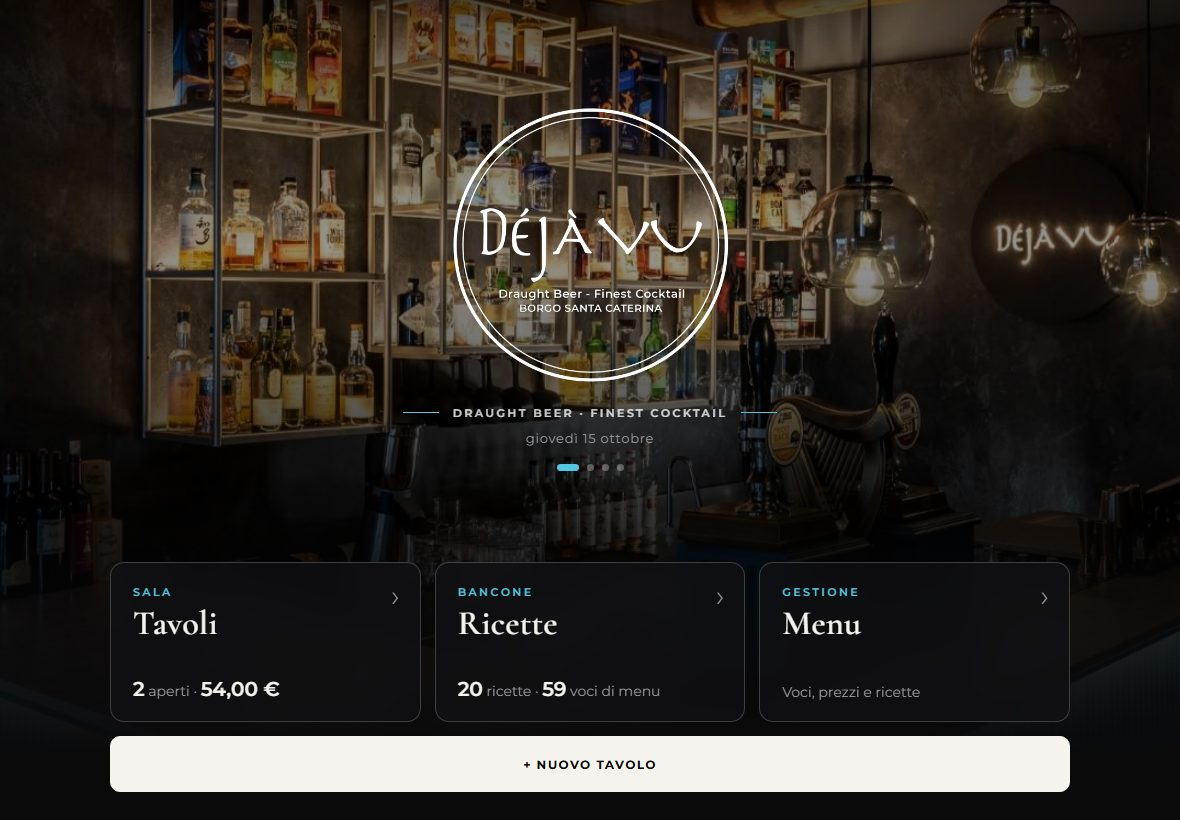
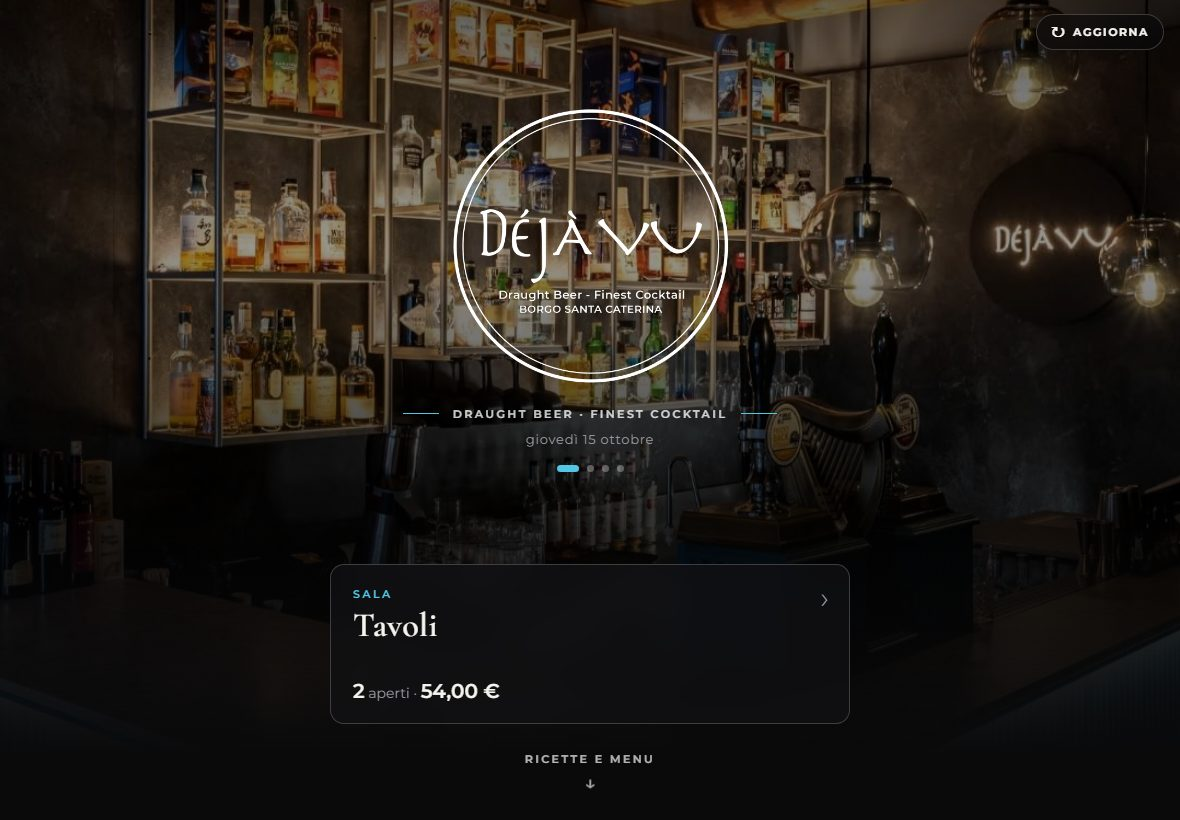
Pagina iniziale a scorrimento: all'apertura foto e Tavoli, scorrendo Ricette, Menu e Nuovo tavolo

diff --git a/staff/index.html b/staff/index.html
@@ -127,10 +127,23 @@
   .hero-top .line { display: flex; align-items: center; gap: 14px; margin-top: 22px; color: rgba(255,255,255,.8); }
   .hero-top .line::before, .hero-top .line::after { content: ""; width: 36px; height: 1px; background: var(--accent); }
   .hero-top .date { margin-top: 10px; color: var(--muted); font-size: 13px; letter-spacing: .06em; }
+  /* Primo schermo: foto, logo e solo Tavoli. Scorrendo: Ricette, Menu e Nuovo tavolo */
   .hero-cards {
-    display: grid; grid-template-columns: repeat(3, minmax(0, 1fr)); gap: 14px;
-    width: min(1000px, 100%); margin: 36px auto 0; padding: 0 20px calc(28px + env(safe-area-inset-bottom));
+    display: grid; grid-template-columns: minmax(0, 1fr); gap: 14px;
+    width: min(560px, 100%); margin: 36px auto 0; padding: 0 20px calc(18px + env(safe-area-inset-bottom));
   }
+  .scroll-hint {
+    display: flex; flex-direction: column; align-items: center; gap: 4px; margin: 6px auto 0;
+    background: none; border: none; color: rgba(255,255,255,.7); padding: 8px 16px;
+  }
+  .scroll-hint .freccia { font-size: 20px; animation: rimbalza 1.8s ease-in-out infinite; }
+  @keyframes rimbalza { 0%, 100% { transform: translateY(0); } 50% { transform: translateY(6px); } }
+  @media (prefers-reduced-motion: reduce) { .scroll-hint .freccia { animation: none; } }
+  .home-more {
+    display: grid; grid-template-columns: repeat(2, minmax(0, 1fr)); gap: 14px;
+    width: min(1000px, 100%); margin: 0 auto; padding: 28px 20px calc(40px + env(safe-area-inset-bottom));
+  }
+  .home-more .hcard { background: var(--panel); backdrop-filter: none; -webkit-backdrop-filter: none; }
   .hcard {
     text-align: left; text-decoration: none; color: var(--text);
     background: rgba(17,17,19,.78); backdrop-filter: blur(14px); -webkit-backdrop-filter: blur(14px);
@@ -407,7 +420,8 @@
     .tabs a.on::after { left: 10px; right: 10px; }
     .page-title h2 { font-size: 30px; }
     .page-title .btn { width: 100%; }
-    .hero-cards { grid-template-columns: minmax(0, 1fr); gap: 10px; padding: 0 14px calc(20px + env(safe-area-inset-bottom)); margin-top: 24px; }
+    .hero-cards { gap: 10px; padding: 0 14px calc(12px + env(safe-area-inset-bottom)); margin-top: 24px; }
+    .home-more { grid-template-columns: minmax(0, 1fr); gap: 10px; padding: 20px 14px calc(28px + env(safe-area-inset-bottom)); }
     .hcard { min-height: 0; padding: 18px; }
     .hero-top { padding-top: calc(env(safe-area-inset-top) + 32px); }
     .hero-top .line { font-size: 9px; letter-spacing: .16em; gap: 10px; margin-top: 18px; white-space: nowrap; }
@@ -695,6 +709,10 @@
               ? `<b>${tavoli.length}</b> ${tavoli.length === 1 ? "aperto" : "aperti"} · <b>${euro(aperti)}</b>`
               : "Nessun tavolo aperto"}</div>
           </a>
+          <button class="scroll-hint" data-action="scendi"><span class="dv-caps">Ricette e Menu</span><span class="freccia">↓</span></button>
+        </div>
+      </section>
+      <section class="home-more">
           <a class="hcard" href="#ricette">
             <span class="k dv-caps">Bancone</span>
             <h3>Ricette</h3>
@@ -706,7 +724,6 @@
             <div class="v">Voci, prezzi e ricette</div>
           </a>
           <div class="hero-new"><button class="btn primary" data-action="nuovo-tavolo">+ Nuovo tavolo</button></div>
-        </div>
       </section>`;
     requestAnimationFrame(() => requestAnimationFrame(() => mostraSlide(0)));
   }
@@ -1332,6 +1349,7 @@
       case "apri-ricetta": return apriRicetta(b.dataset.id);
       case "slide": mostraSlide(+b.dataset.i); return avviaSlide();
       case "aggiorna": return controllaAggiornamenti();
+      case "scendi": return window.scrollTo({ top: $(".hero").offsetHeight, behavior: "smooth" });
       case "nuovo-tavolo": return nuovoTavolo();
       case "apri-tavolo": location.hash = "#tavolo/" + encodeURIComponent(b.dataset.id); return;
     }

diff --git a/staff/sw.js b/staff/sw.js
@@ -2,7 +2,7 @@
 // - menu.json: prima dalla rete (per avere sempre il menu più recente), se offline dalla copia salvata
 // - tutto il resto: subito dalla copia salvata, e in background scarica l'eventuale versione aggiornata
 // Cambiando CACHE, gli iPad scaricano la nuova versione dell'app e mostrano "Aggiorna".
-const CACHE = "dejavu-staff-v11";
+const CACHE = "dejavu-staff-v12";
 const FILES = [
   "./", "./index.html", "./manifest.json", "./icon-180.png", "./icon-192.png",
   "../shared/config.js", "../shared/menu.json", "../shared/brand.css", "../shared/logo-white.png",

diff --git a/README.md b/README.md
@@ -126,8 +126,14 @@ Dopo, l'app **funziona anche senza internet**.
 ## 🍸 Come si usa
 
 ### 1. Pagina iniziale
-Le foto del locale scorrono dietro il logo. Da qui vai a **Tavoli**, **Ricette** o **Menu**, oppure apri subito un **+ Nuovo tavolo**.
-Nel riquadro *Tavoli* vedi quanti tavoli sono aperti e quanto c'è ancora da incassare.
+Le foto del locale scorrono dietro il logo e c'è subito il riquadro **Tavoli**, con quanti tavoli sono aperti e quanto c'è ancora da incassare.
+**Scorrendo verso il basso** trovi **Ricette**, **Menu** e il pulsante **+ Nuovo tavolo**.
+
+<p align="center">
+  <img src="docs/screenshots/phone-home.jpg" width="200" alt="Pagina iniziale">
+  &nbsp;
+  <img src="docs/screenshots/phone-home-giu.jpg" width="200" alt="Pagina iniziale scorrendo giù">
+</p>
 
 ### 2. Arriva un tavolo → **+ Nuovo tavolo**
 Scrivi il nome che vuoi (*Tavolo 4*, *Divanetto*, *Esterno 2*…) e premi **Crea tavolo**.
